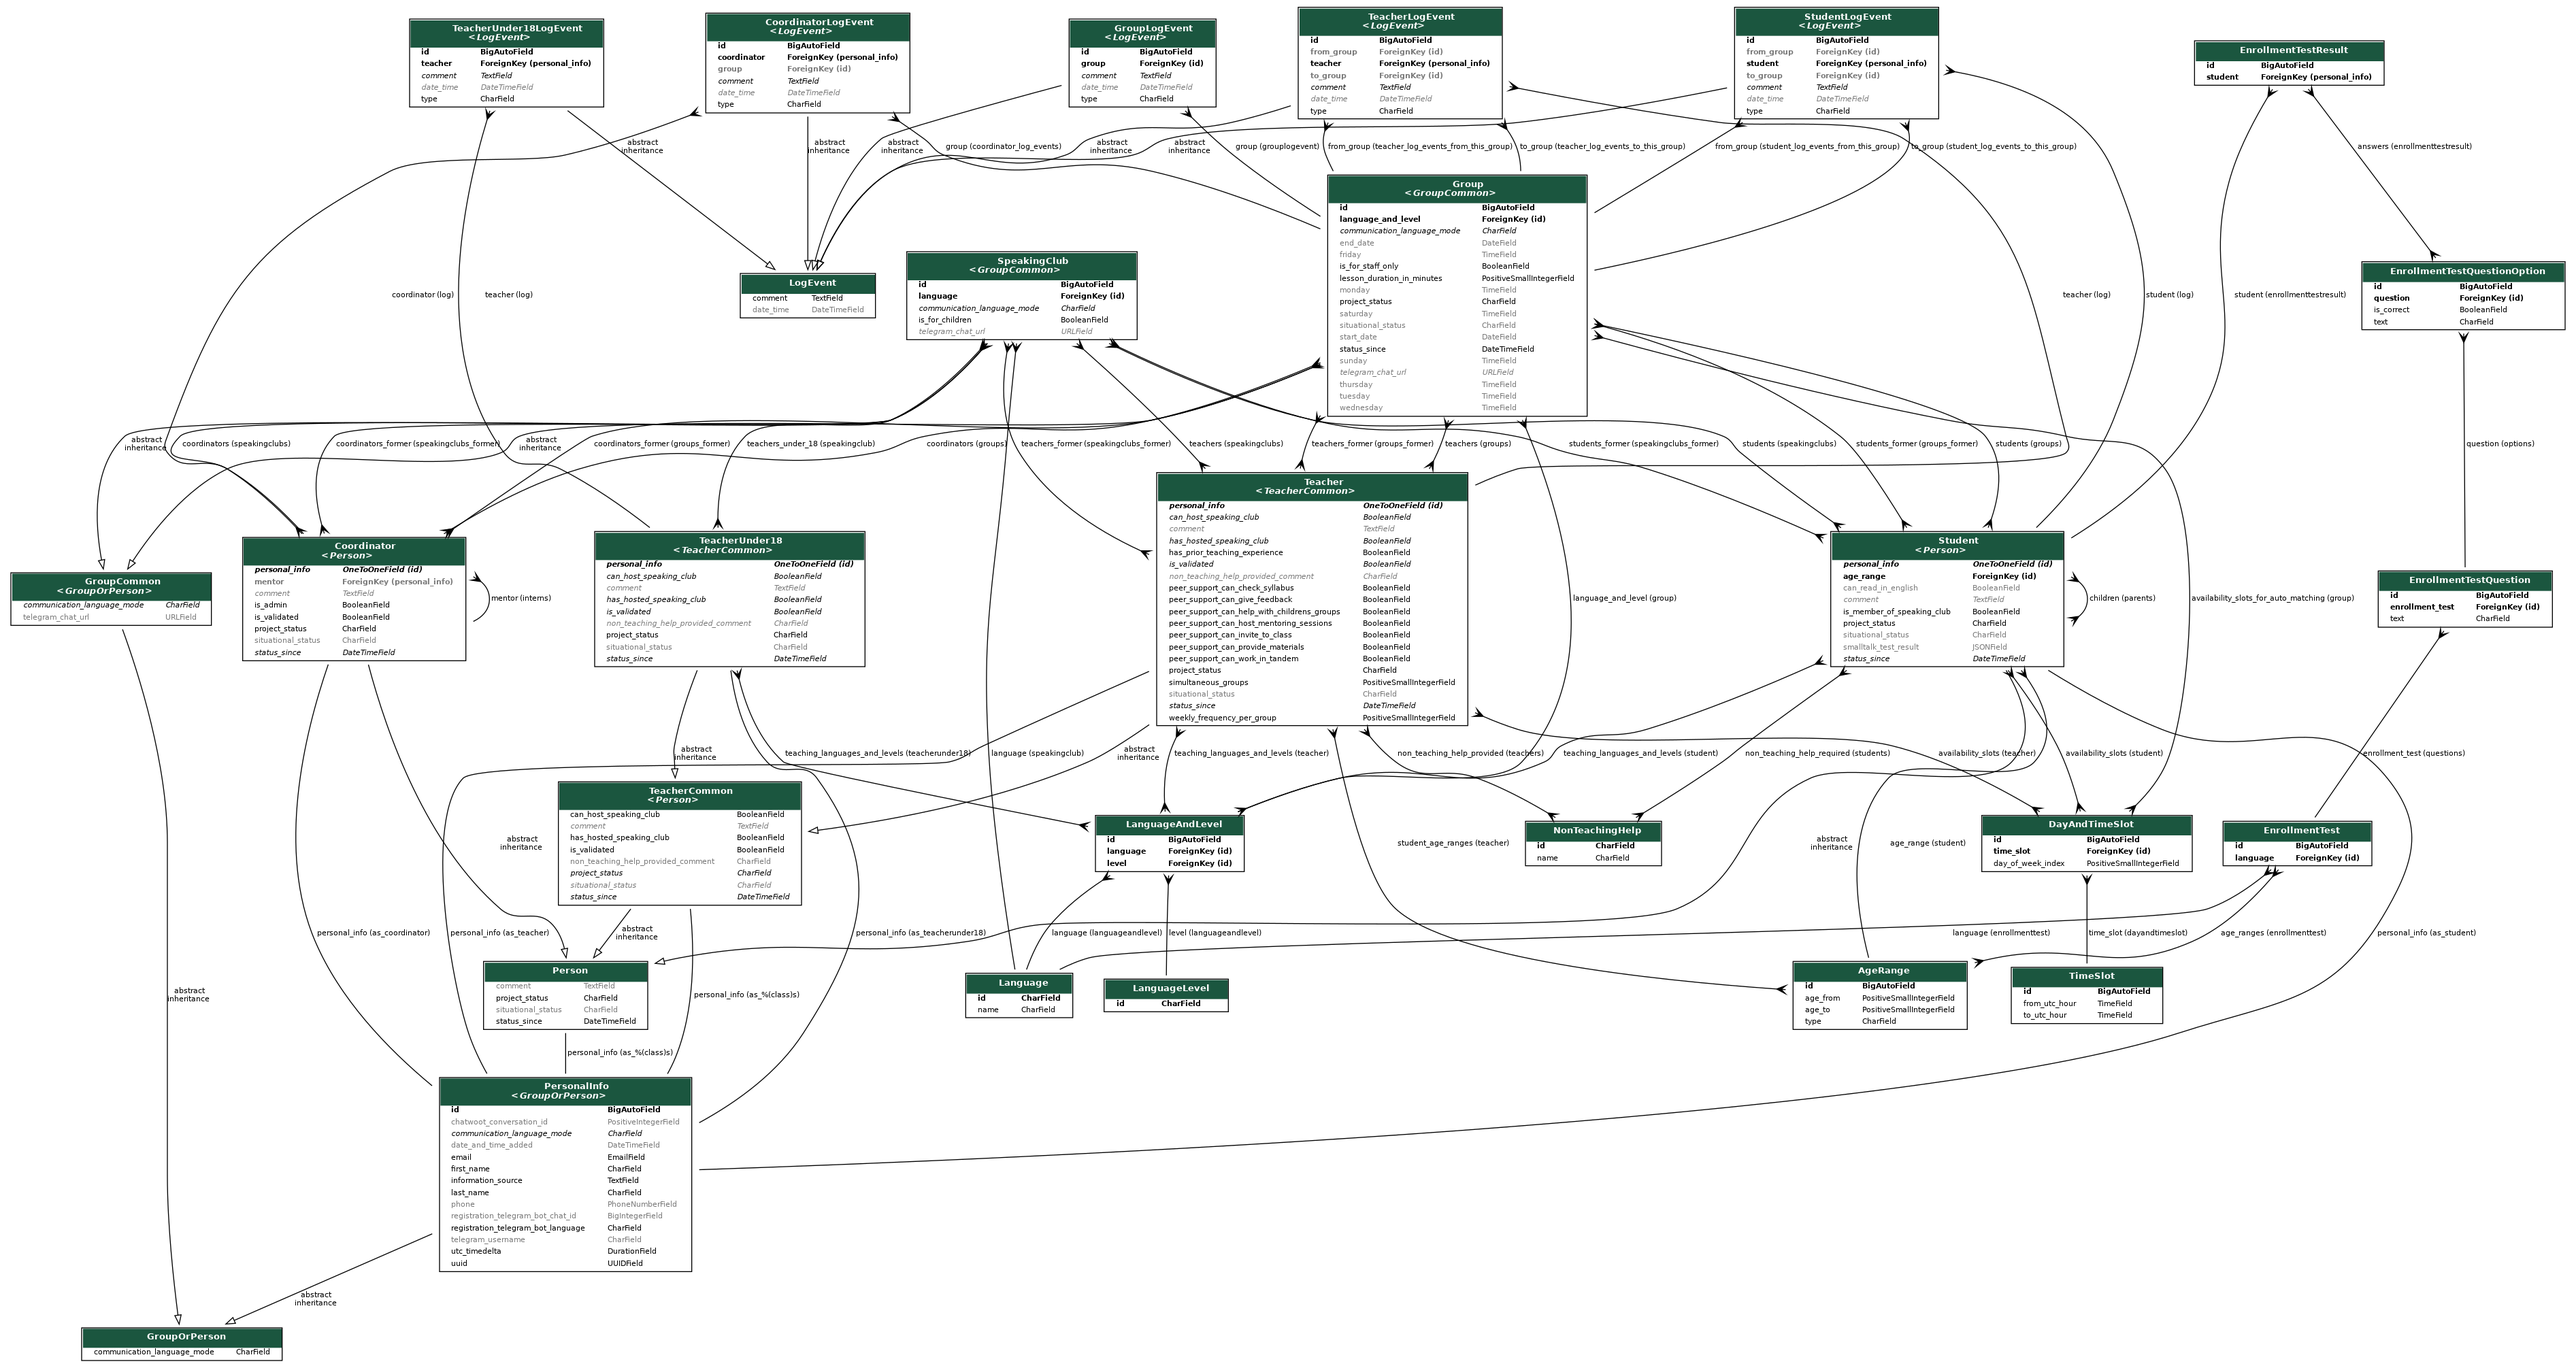
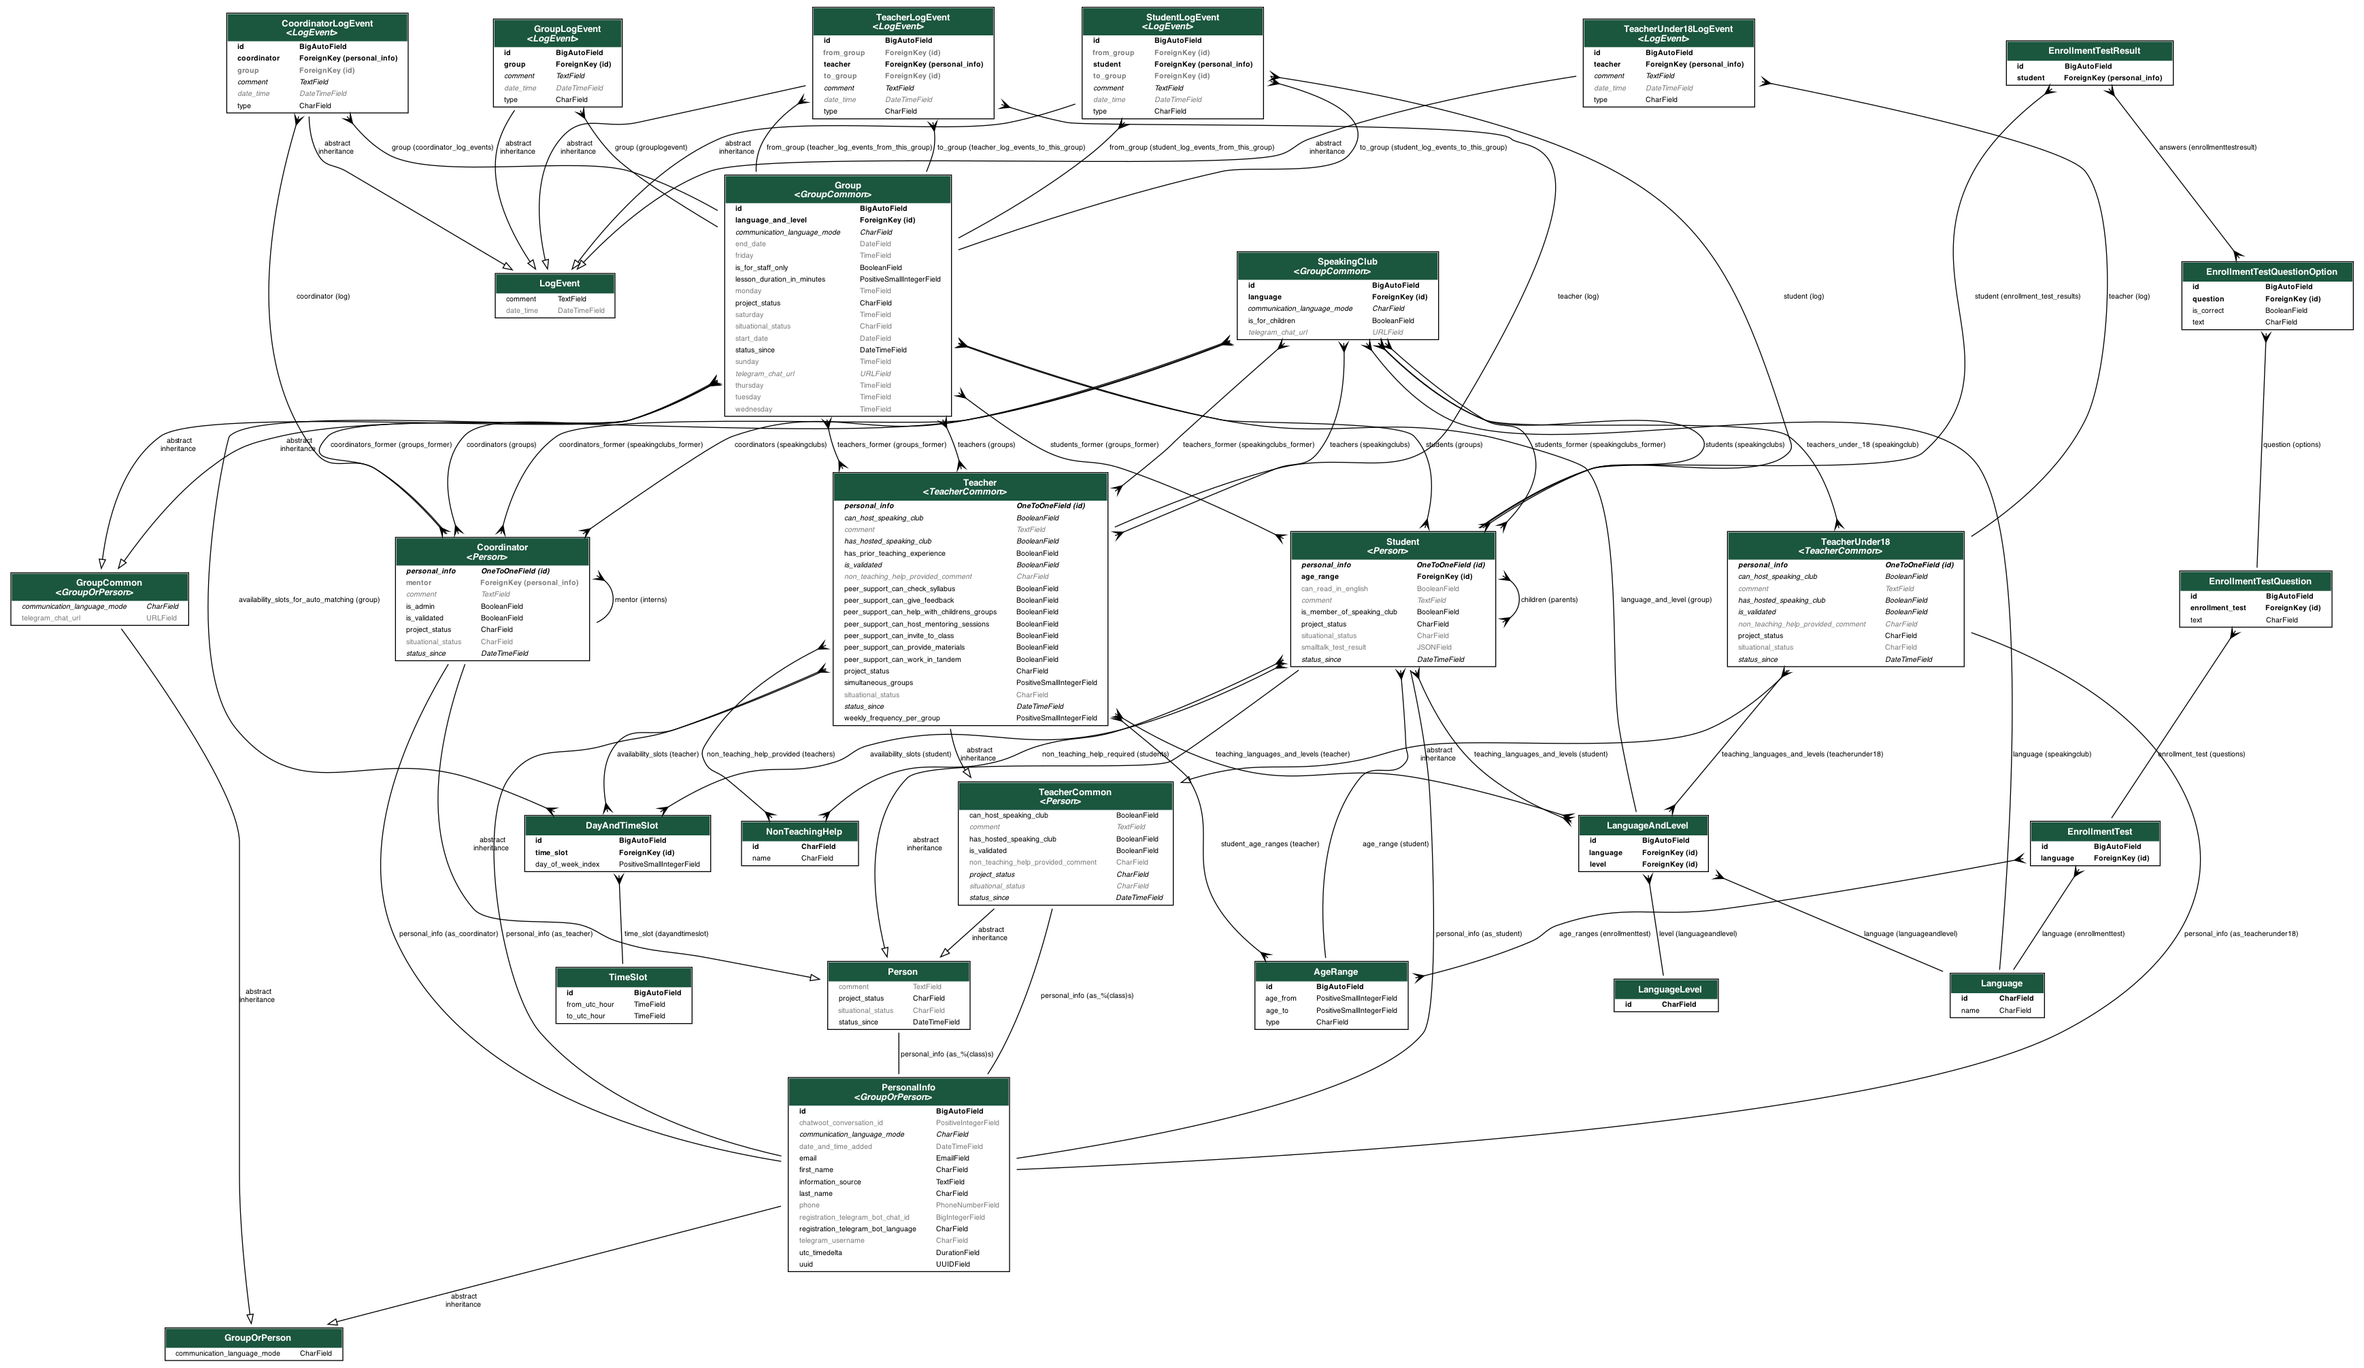
#161: Show enrollment test results in students admin (#229)

diff --git a/api/admin.py b/api/admin.py
@@ -1,5 +1,6 @@
 from django import forms
 from django.contrib import admin
+from django.utils.html import format_html
 
 from api import models
 from api.utils import capitalize_each_word
@@ -39,16 +40,65 @@ class PersonalInfoAdmin(admin.ModelAdmin[models.PersonalInfo]):
     form = PersonalInfoAdminForm
 
 
-admin.site.register(models.PersonalInfo, PersonalInfoAdmin)
+class StudentAdminForm(forms.ModelForm[models.Student]):
+    class Meta:
+        model = models.Student
+        fields = "__all__"
 
+
+class StudentAdmin(admin.ModelAdmin[models.Student]):
+    form = StudentAdminForm
+    readonly_fields = (
+        "enrollment_tests_summary",
+        "enrollment_tests_result_answers",
+    )
+
+    # TODO: searching is case-sensitive, better to make it case-insensitive somehow
+    search_fields = (
+        "personal_info__first_name",
+        "personal_info__last_name",
+        "personal_info__email",
+    )
+
+    def enrollment_tests_summary(self, obj: models.Student) -> str:
+        result = ""
+        for idx, test_result in enumerate(obj.enrollment_test_results.all(), start=1):
+            first_answer = test_result.answers.first()
+            if not first_answer:
+                continue
+
+            question = first_answer.question
+
+            if not question:
+                continue
+
+            result += (
+                f"Test #{idx}, Total questions: {question.enrollment_test.questions.count()}, "
+                f"Total answers: {test_result.answers.count()}, "
+                f"Correct answers: {test_result.correct_answers_count}\n"
+            )
+        return result
+
+    def enrollment_tests_result_answers(self, obj: models.Student) -> str:
+        result = ""
+        for idx, test_result in enumerate(obj.enrollment_test_results.all(), start=1):
+            result += f"<b>Test #{idx}</b><br>"
+            for answer in test_result.answers.all():
+                result += f"{answer.question}, answer: <b>{answer}</b>, <br>"
+            result += "<br><br>"
+        return format_html(result)
+
+
+admin.site.register(models.PersonalInfo, PersonalInfoAdmin)
+admin.site.register(models.Student, StudentAdmin)
 
 for model in (
     models.Coordinator,
     models.EnrollmentTest,
     models.EnrollmentTestQuestion,
     models.EnrollmentTestQuestionOption,
+    models.EnrollmentTestResult,
     models.Group,
-    models.Student,
     models.SpeakingClub,
     models.Teacher,
     models.TeacherUnder18,

diff --git a/api/migrations/0001_initial.py b/api/migrations/0001_initial.py
@@ -1,4 +1,4 @@
-# Generated by Django 4.2.4 on 2023-08-08 18:08
+# Generated by Django 4.2.4 on 2023-08-18 16:25
 
 import datetime
 from django.db import migrations, models
@@ -1322,7 +1322,11 @@ class Migration(migrations.Migration):
         migrations.AddField(
             model_name="enrollmenttestresult",
             name="student",
-            field=models.ForeignKey(on_delete=django.db.models.deletion.CASCADE, to="api.student"),
+            field=models.ForeignKey(
+                on_delete=django.db.models.deletion.CASCADE,
+                related_name="enrollment_test_results",
+                to="api.student",
+            ),
         ),
         migrations.AddConstraint(
             model_name="enrollmenttestquestionoption",

diff --git a/api/models/enrollment_test.py b/api/models/enrollment_test.py
@@ -72,7 +72,9 @@ class EnrollmentTestQuestionOption(models.Model):
 class EnrollmentTestResult(models.Model):
     """Model for a test result for a given student. Consists of answers to assessment questions."""
 
-    student = models.ForeignKey(Student, on_delete=models.CASCADE)
+    student = models.ForeignKey(
+        Student, on_delete=models.CASCADE, related_name="enrollment_test_results"
+    )
     answers = models.ManyToManyField(EnrollmentTestQuestionOption)
 
     def __str__(self) -> str:
